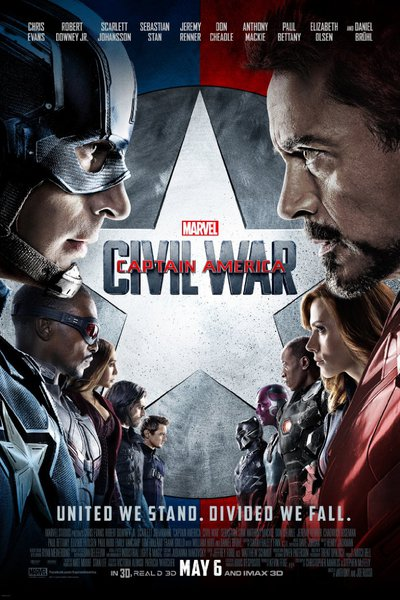
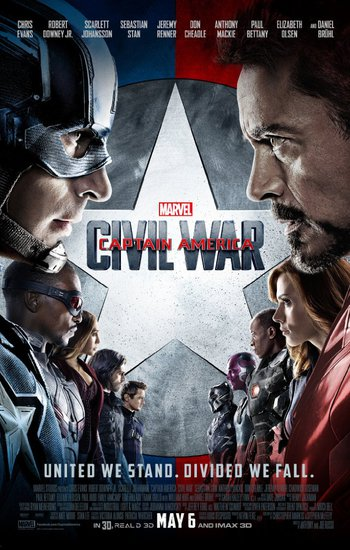
updates movie posters, adds devise username, and config

diff --git a/app/assets/stylesheets/application.scss b/app/assets/stylesheets/application.scss
@@ -2,7 +2,7 @@
 @import "bootstrap";
 
 body {
-	background: #AA4847;
+	background: #47A9AA;
 }
 
 .review-title {

diff --git a/app/models/user.rb b/app/models/user.rb
@@ -1,8 +1,33 @@
 class User < ActiveRecord::Base
-  # Include default devise modules. Others available are:
-  # :confirmable, :lockable, :timeoutable and :omniauthable
+
   devise :database_authenticatable, :registerable,
-         :recoverable, :rememberable, :trackable, :validatable
+         :recoverable, :rememberable, :trackable, :validatable, :authentication_keys => {email: true, login: false}
   has_many :movies
   has_many :reviews, dependent: :destroy
+  validates :username, :presence => true, :uniqueness => {:case_sensitive => false}
+
+  attr_accessor :login
+
+  def login=(login)
+    @login = login
+  end
+
+  def login
+    @login || self.username || self.email
+  end
+
+	def self.find_for_database_authentication(warden_conditions)
+	  conditions = warden_conditions.dup
+	  if login = conditions.delete(:login)
+	    where(conditions.to_h).where(["lower(username) = :value OR lower(email) = :value", { :value => login.downcase }]).first
+	  elsif conditions.has_key?(:username) || conditions.has_key?(:email)
+	    where(conditions.to_h).first
+	  end
+	end
+
+	def validate_username
+  	if User.where(email: username).exists?
+    errors.add(:username, :invalid)
+  	end
+	end
 end

diff --git a/db/schema.rb b/db/schema.rb
@@ -11,7 +11,7 @@
 #
 # It's strongly recommended that you check this file into your version control system.
 
-ActiveRecord::Schema.define(version: 20160606203319) do
+ActiveRecord::Schema.define(version: 20160607193132) do
 
   create_table "movies", force: :cascade do |t|
     t.string   "title",              limit: 255
@@ -50,9 +50,11 @@ ActiveRecord::Schema.define(version: 20160606203319) do
     t.string   "last_sign_in_ip",        limit: 255
     t.datetime "created_at",                                      null: false
     t.datetime "updated_at",                                      null: false
+    t.string   "username",               limit: 255
   end
 
   add_index "users", ["email"], name: "index_users_on_email", unique: true, using: :btree
   add_index "users", ["reset_password_token"], name: "index_users_on_reset_password_token", unique: true, using: :btree
+  add_index "users", ["username"], name: "index_users_on_username", unique: true, using: :btree
 
 end

diff --git a/app/controllers/application_controller.rb b/app/controllers/application_controller.rb
@@ -1,5 +1,13 @@
 class ApplicationController < ActionController::Base
   # Prevent CSRF attacks by raising an exception.
   # For APIs, you may want to use :null_session instead.
+  before_action :configure_permitted_parameters, if: :devise_controller?
   protect_from_forgery with: :exception
+
+  def configure_permitted_parameters
+    added_attrs = [:username, :email, :password, :password_confirmation, :remember_me]
+    devise_parameter_sanitizer.permit :sign_up, keys: added_attrs
+    devise_parameter_sanitizer.permit :account_update, keys: added_attrs
+  end
+
 end

diff --git a/app/models/movie.rb b/app/models/movie.rb
@@ -2,6 +2,6 @@ class Movie < ActiveRecord::Base
 	searchkick
 	belongs_to :user
 	has_many :reviews
-  has_attached_file :image, styles: { medium: "300x500#" }
+  has_attached_file :image, styles: { medium: "350x550#" }
   validates_attachment_content_type :image, content_type: /\Aimage\/.*\Z/
 end

diff --git a/config/initializers/devise.rb b/config/initializers/devise.rb
@@ -148,6 +148,7 @@ Devise.setup do |config|
 
   # ==> Configuration for :validatable
   # Range for password length.
+  config.authentication_keys = [:login]
   config.password_length = 6..128
 
   # Email regex used to validate email formats. It simply asserts that

diff --git a/db/migrate/20160607193132_add_username_to_users.rb b/db/migrate/20160607193132_add_username_to_users.rb
@@ -1,0 +1,6 @@
+class AddUsernameToUsers < ActiveRecord::Migration
+  def change
+    add_column :users, :username, :string
+    add_index :users, :username, unique: true
+  end
+end
